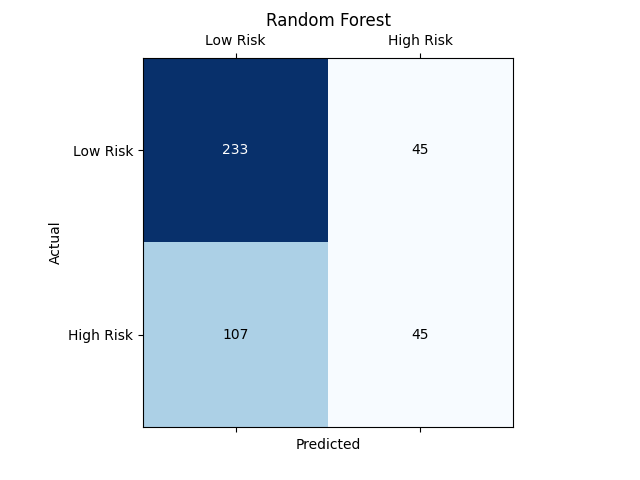
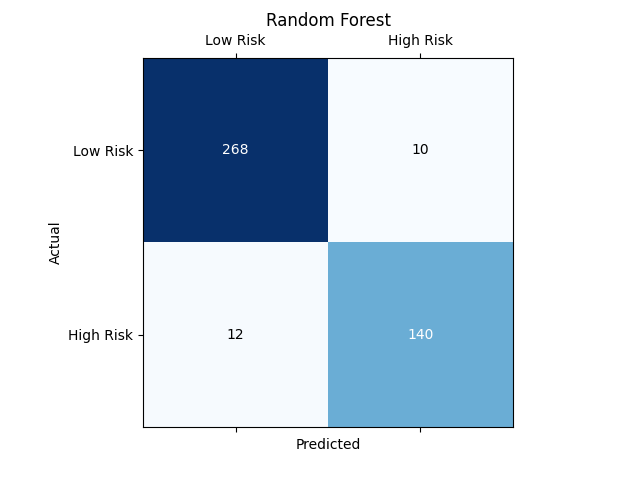
Added model evaluation script with accuracy and metrics

Changed region(s): [[0.2188, 0.5, 0.8125, 0.9062], [0.625, 0.2812, 0.6875, 0.3125], [0.3438, 0.2812, 0.375, 0.3125]]

diff --git a/evaluate_model.py b/evaluate_model.py
@@ -1,0 +1,80 @@
+import pandas as pd
+import numpy as np
+from sklearn.model_selection import train_test_split, cross_val_score
+from sklearn.preprocessing import StandardScaler
+from sklearn.impute import SimpleImputer
+from sklearn.ensemble import RandomForestClassifier
+from sklearn.feature_selection import SelectKBest, f_classif
+from sklearn.metrics import accuracy_score, precision_score, recall_score, f1_score, confusion_matrix
+
+def compute_metrics():
+    print("--- 1. Dataset Details ---")
+    df = pd.read_csv("alzheimers_disease_data.csv")
+    print(f"Total number of rows (records): {df.shape[0]}")
+    
+    # Drop irrelevant columns
+    df = df.drop(columns=[col for col in ['PatientID', 'DoctorInCharge'] if col in df.columns])
+    
+    numeric_cols = df.select_dtypes(include=[np.number]).columns.tolist()
+    if 'Diagnosis' in numeric_cols:
+        numeric_cols.remove('Diagnosis')
+        
+    X = df[numeric_cols]
+    y = df['Diagnosis']
+    
+    print(f"Number of original features: {X.shape[1]}")
+    print(f"Feature names:\n{list(X.columns)}\n")
+
+    print("--- 2. Validation & Preprocessing ---")
+    imputer = SimpleImputer(strategy='mean')
+    X_imputed = pd.DataFrame(imputer.fit_transform(X), columns=X.columns)
+
+    # Feature selection matching pipeline
+    rf_selector = RandomForestClassifier(random_state=42)
+    rf_selector.fit(X_imputed, y)
+    importances = rf_selector.feature_importances_
+    rf_features = [X_imputed.columns[i] for i in np.argsort(importances)[::-1][:5]]
+
+    selector = SelectKBest(score_func=f_classif, k=5)
+    selector.fit(X_imputed, y)
+    kbest_features = [X_imputed.columns[i] for i in selector.get_support(indices=True)]
+
+    selected_features = list(set(rf_features + kbest_features))
+    X_selected = X_imputed[selected_features]
+    print(f"Features selected for model: {len(selected_features)} ({selected_features})\n")
+
+    print("Train-test split used: 80% Train, 20% Test (Stratified)\n")
+    X_train, X_test, y_train, y_test = train_test_split(
+        X_selected, y, test_size=0.2, random_state=42, stratify=y
+    )
+
+    scaler = StandardScaler()
+    X_train_scaled = pd.DataFrame(scaler.fit_transform(X_train), columns=X_selected.columns)
+    X_test_scaled = pd.DataFrame(scaler.transform(X_test), columns=X_selected.columns)
+
+    rf = RandomForestClassifier(random_state=42)
+    
+    # Cross validation on training data
+    cv_scores = cross_val_score(rf, X_train_scaled, y_train, cv=5, scoring='accuracy')
+    print(f"Cross-validation (5-fold) accuracy scores: {[round(s, 4) for s in cv_scores]}")
+    print(f"Mean Cross-validation accuracy: {cv_scores.mean() * 100:.2f}%\n")
+
+    print("--- 3. Model Performance ---")
+    rf.fit(X_train_scaled, y_train)
+    y_pred = rf.predict(X_test_scaled)
+
+    acc = accuracy_score(y_test, y_pred)
+    prec = precision_score(y_test, y_pred, zero_division=0)
+    rec = recall_score(y_test, y_pred, zero_division=0)
+    f1 = f1_score(y_test, y_pred, zero_division=0)
+    cm = confusion_matrix(y_test, y_pred)
+
+    print(f"Final Accuracy:  {acc * 100:.2f}%")
+    print(f"Precision:       {prec * 100:.2f}%")
+    print(f"Recall:          {rec * 100:.2f}%")
+    print(f"F1-score:        {f1 * 100:.2f}%")
+    print("Confusion Matrix:")
+    print(cm)
+
+if __name__ == "__main__":
+    compute_metrics()

diff --git a/alzheimers_pipeline.py b/alzheimers_pipeline.py
@@ -15,6 +15,7 @@ from sklearn.metrics import (
     accuracy_score, precision_score, recall_score, f1_score,
     roc_auc_score, confusion_matrix, roc_curve, precision_recall_curve
 )
+from sklearn.feature_selection import SelectKBest, f_classif
 
 # Create output folder structure
 directories = [
@@ -56,17 +57,71 @@ def main():
     df = df.drop(columns=[col for col in ['PatientID', 'DoctorInCharge'] if col in df.columns])
 
     # Features
-    feature_cols = [
-        'Age', 'BMI', 'SystolicBP', 'CholesterolTotal',
-        'MemoryComplaints', 'Confusion', 'Forgetfulness'
-    ]
+    numeric_cols = df.select_dtypes(include=[np.number]).columns.tolist()
+    if 'Diagnosis' in numeric_cols:
+        numeric_cols.remove('Diagnosis')
 
-    X = df[feature_cols]
+    X = df[numeric_cols]
     y = df['Diagnosis']
 
     # Handle missing values
     imputer = SimpleImputer(strategy='mean')
     X = pd.DataFrame(imputer.fit_transform(X), columns=X.columns)
+
+    print("\n🔹 Performing Feature Selection...")
+
+    # ------------------------
+    # METHOD 1: Random Forest Feature Importance
+    # ------------------------
+    rf_selector = RandomForestClassifier(random_state=42)
+    rf_selector.fit(X, y)
+    importances = rf_selector.feature_importances_
+    
+    top_n = 5
+    rf_indices = np.argsort(importances)[::-1][:top_n]
+    rf_features = [X.columns[i] for i in rf_indices]
+
+    # ------------------------
+    # METHOD 2: SelectKBest (Statistical Method)
+    # ------------------------
+    selector = SelectKBest(score_func=f_classif, k=5)
+    X_new = selector.fit_transform(X, y)
+    
+    kbest_indices = selector.get_support(indices=True)
+    kbest_features = [X.columns[i] for i in kbest_indices]
+
+    # Combine unique selected features
+    selected_features = list(set(rf_features + kbest_features))
+    print("Selected Features:", selected_features)
+
+    with open("outputs/selected_features.txt", "w") as f:
+        f.write("Selected Features:\n")
+        for item in selected_features:
+            f.write(f"- {item}\n")
+    print("Saved: outputs/selected_features.txt")
+
+    # VISUALIZATION
+    plt.figure(figsize=(12, 6))
+    
+    all_indices = np.argsort(importances)[::-1]
+    sorted_importances = importances[all_indices]
+    sorted_features = [X.columns[i] for i in all_indices]
+    
+    colors = ['orange' if feat in selected_features else 'skyblue' for feat in sorted_features]
+    
+    plt.bar(range(len(sorted_features)), sorted_importances, color=colors)
+    plt.xticks(range(len(sorted_features)), sorted_features, rotation=90)
+    plt.xlabel("Features")
+    plt.ylabel("Importance Score")
+    plt.title("Feature Selection (Random Forest Importances)")
+    plt.tight_layout()
+    fs_filepath = "outputs/feature_importance/feature_selection.png"
+    plt.savefig(fs_filepath)
+    print("Saved:", fs_filepath)
+    plt.close()
+
+    # Use selected features instead of full feature set
+    X = X[selected_features]
 
     # Train-test split (FIXED)
     X_train, X_test, y_train, y_test = train_test_split(
